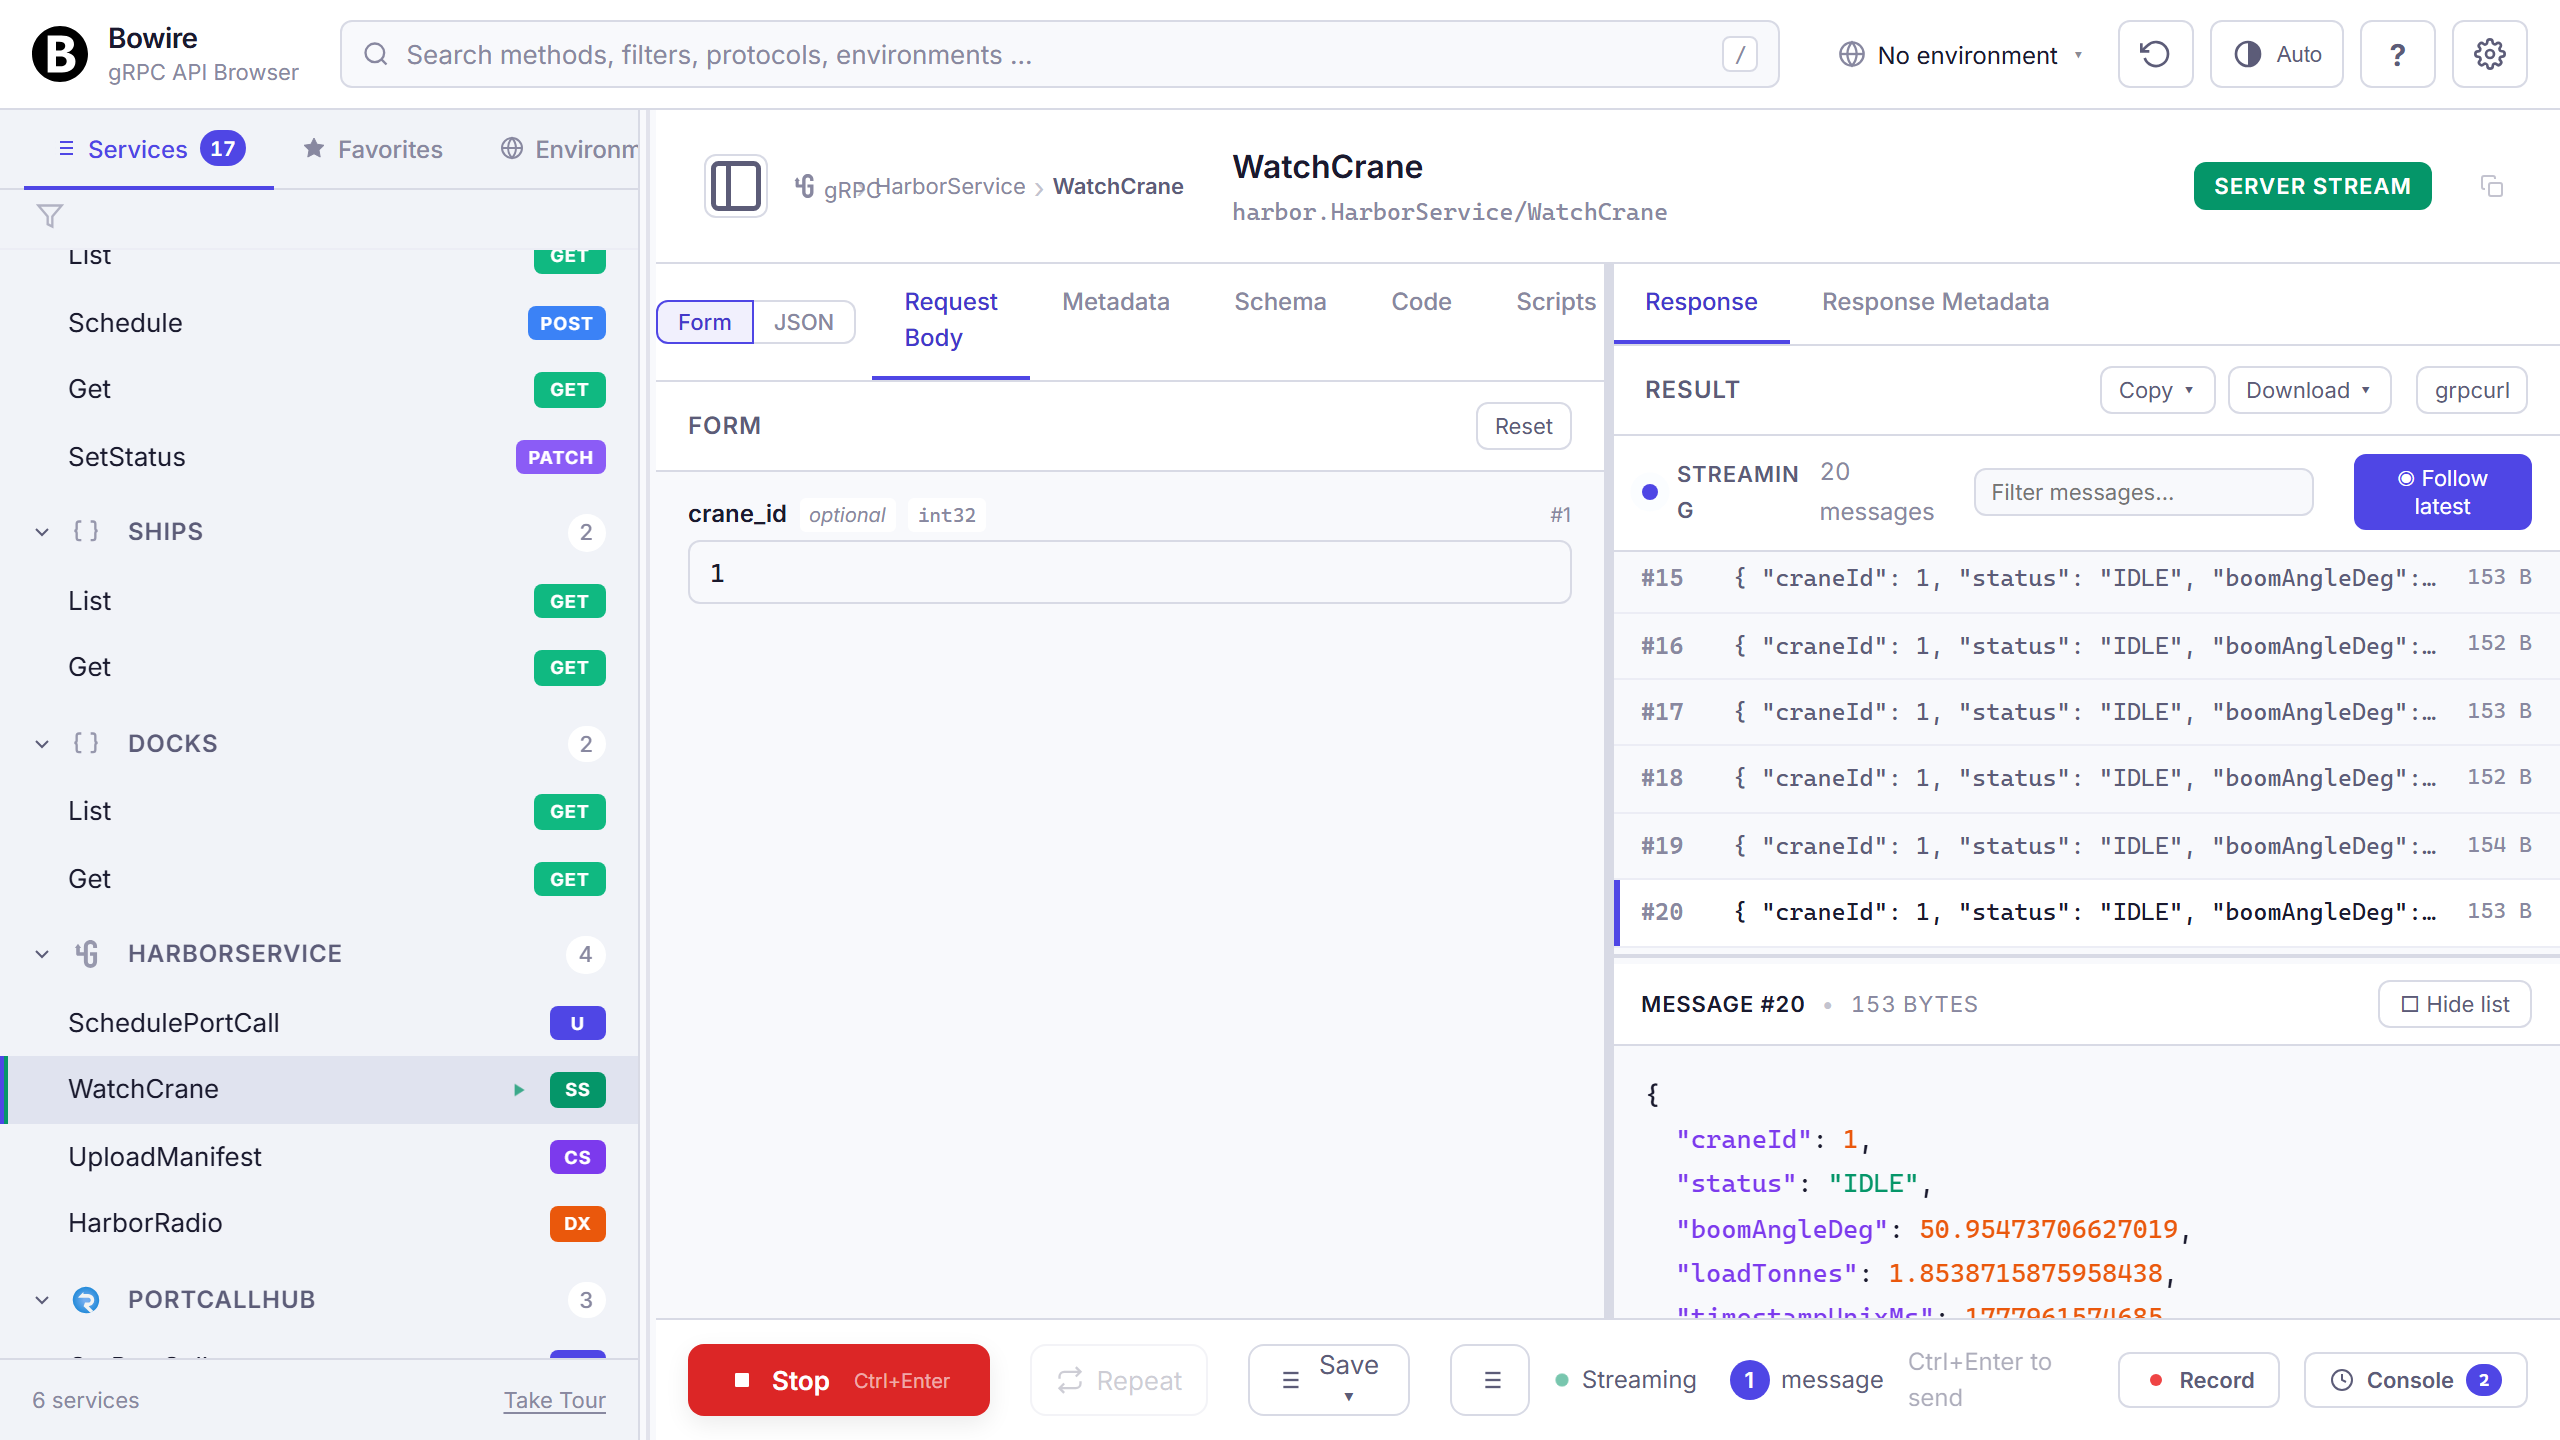
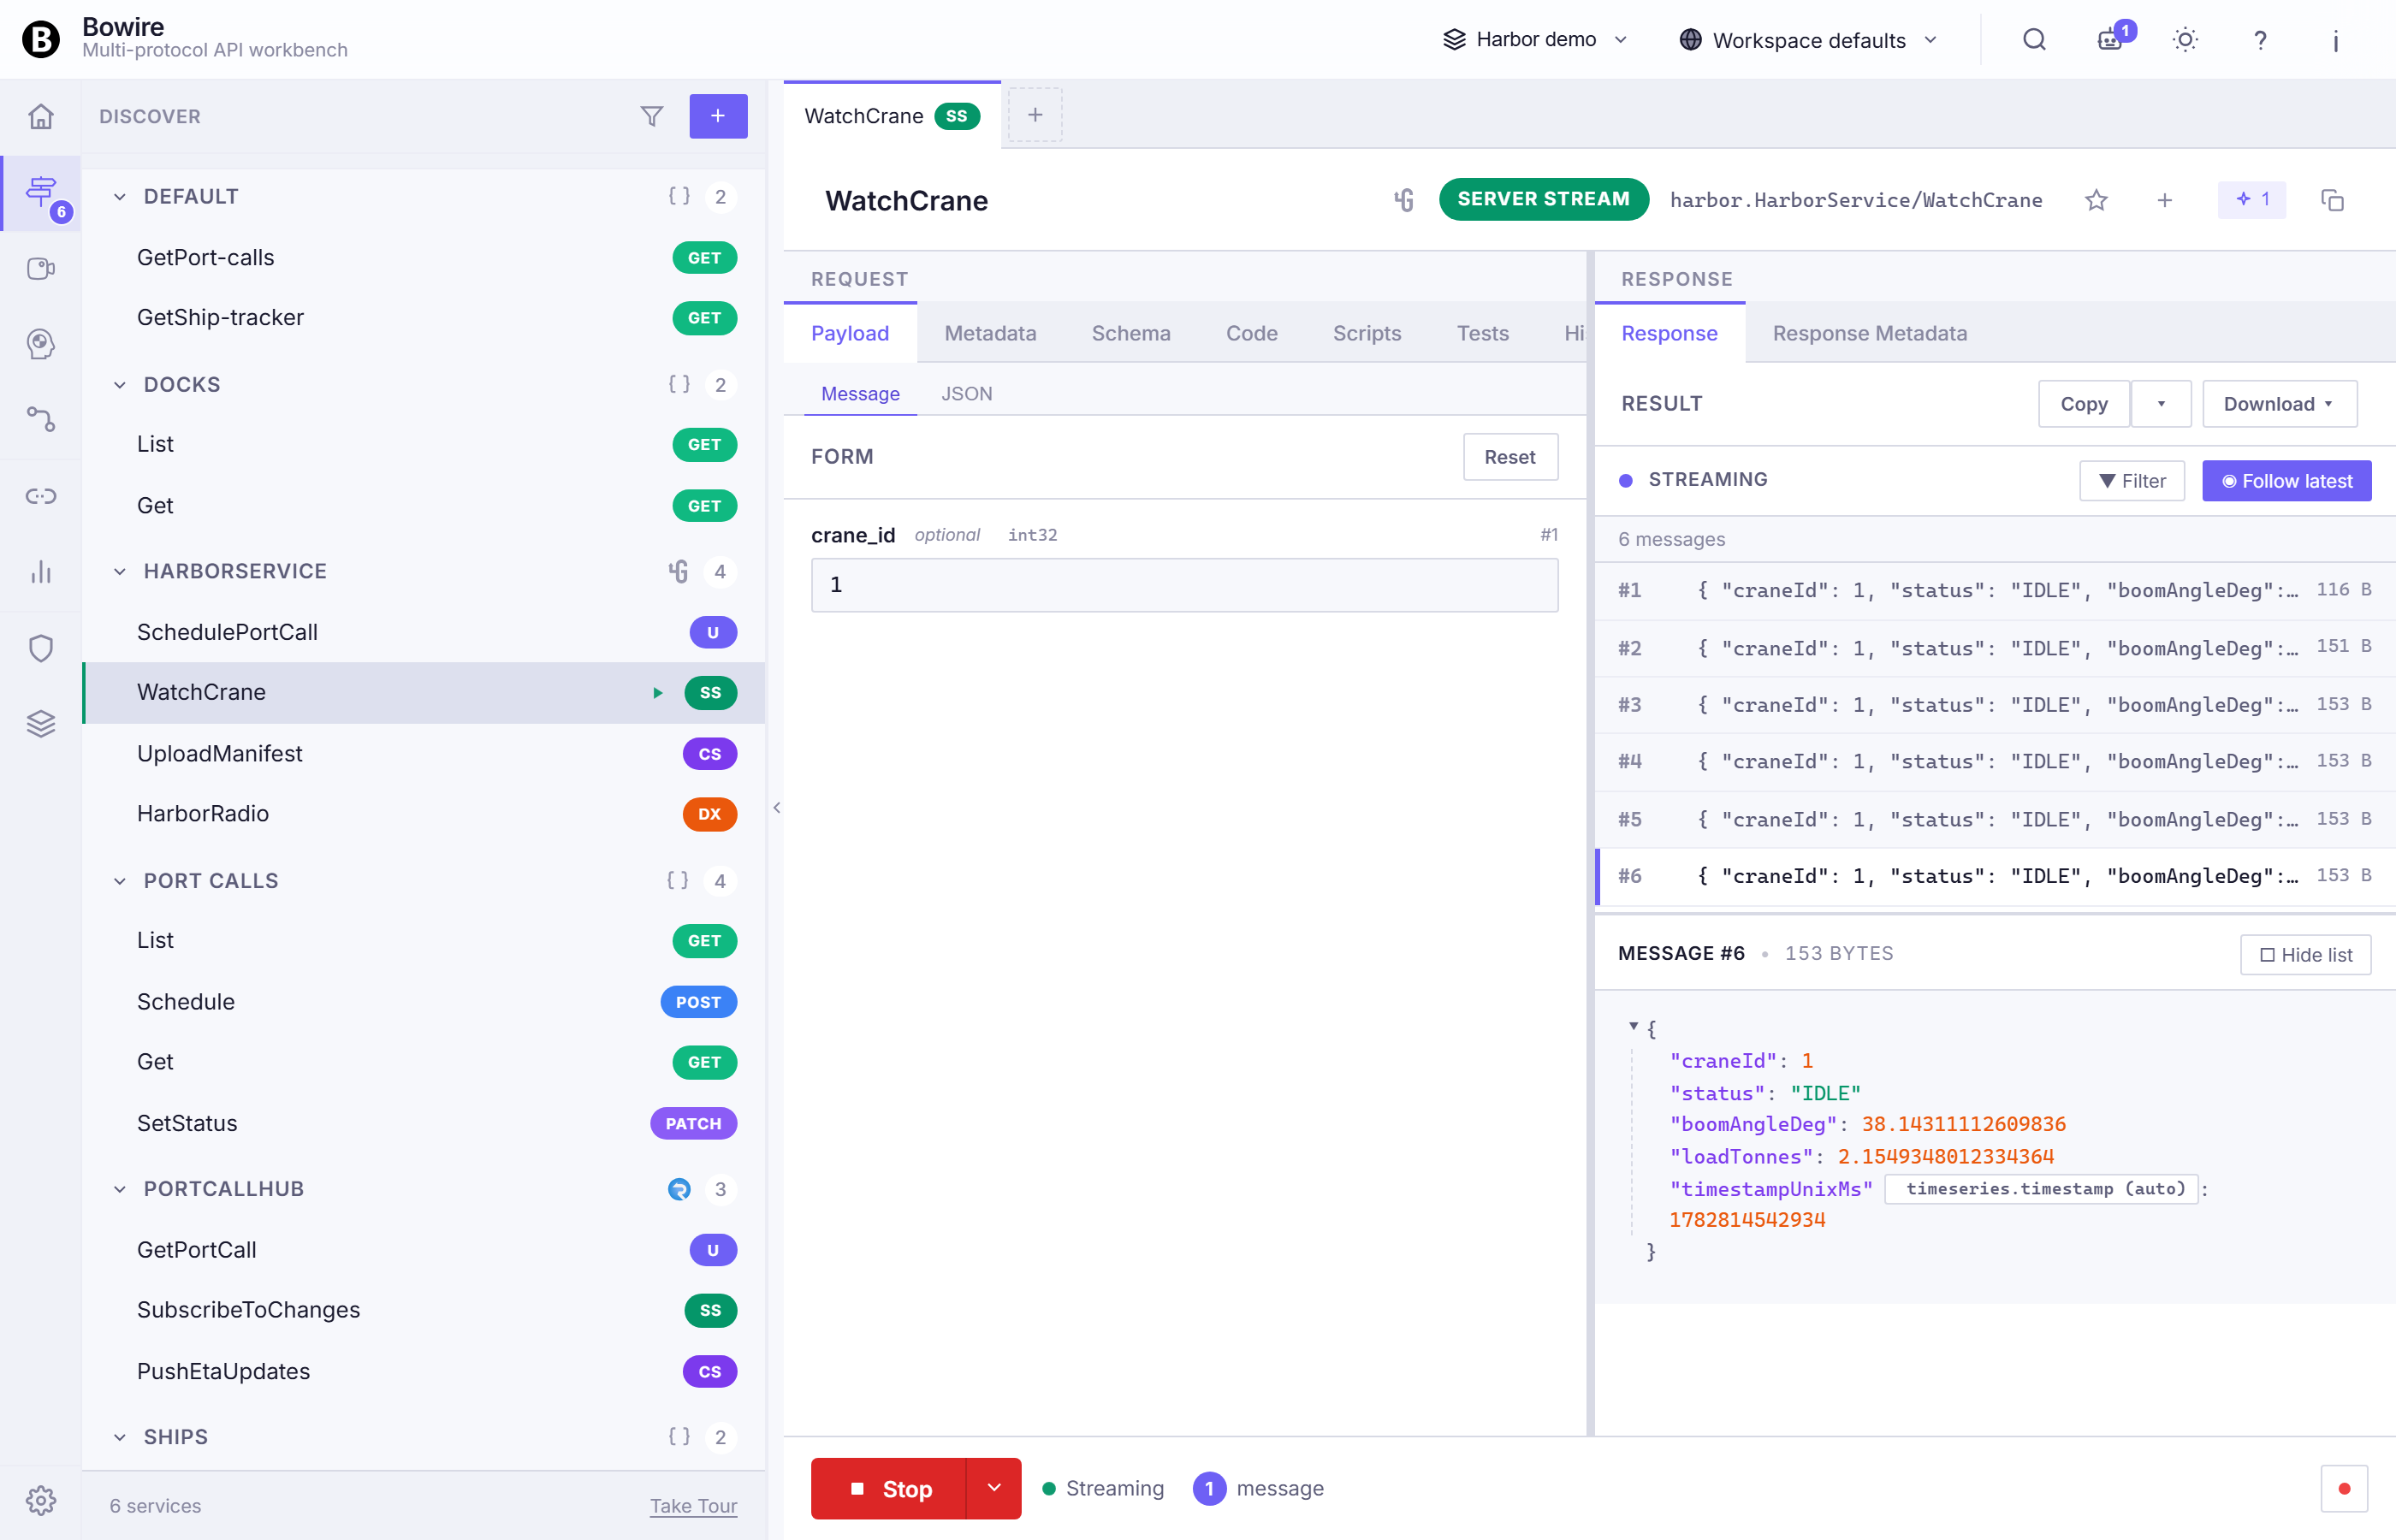
docs(screenshots): refresh ready.png + streaming-grpc for v2.1 marquee
ready.png is the headline asset — README NuGet banner + bowire.io hero
+ features / quickstart / screenshots / usp page references. Previous
PNG was v2.0-era (no rail strip, old terminology). New shot is the
Combined Harbor sample with rail strip visible, Discover active,
HarborService tree expanded, GET /api/docks executed, JSON tree
response card rendered.

streaming-grpc-{dark,light}.png show WatchCrane server stream against
the Combined Harbor sample — SERVER STREAM badge, count pill, six
accumulated frames, message body. Captures the v2.1 stream-card shape.

Other streaming-{akka,dis,graphql,kafka,mqtt}-{dark,light}.png pairs
skipped — those servers live in the Bowire.Samples sibling repo and
weren't running. Existing PNGs untouched; refresh from that repo.

capture-marquee.js is its own script — distinct lifecycle from
capture-v2-1.js (marquee refreshes per release, v2-1/ is the
landing-page surface set tied to that release's narrative).

diff --git a/scripts/screenshots/capture-marquee.js b/scripts/screenshots/capture-marquee.js
@@ -1,0 +1,329 @@
+/**
+ * Refresh Bowire's highest-impact marquee screenshot assets for a release.
+ *
+ * Distinct lifecycle from capture-v2-1.js: marquee assets refresh per
+ * release (this script), v2-1/* are landing-page surfaces tied to that
+ * release's narrative. We keep them separate so a v2.1 -> v2.2 refresh
+ * doesn't churn v2-1/.
+ *
+ * Targets (under site/assets/images/screenshots/):
+ *   ready.png                  Single most-seen Bowire shot — populated
+ *                              workbench, rail strip visible, Discover
+ *                              active, response card rendered.
+ *   streaming-grpc-dark.png    gRPC streaming subscription with state
+ *   streaming-grpc-light.png   badge + count pill + accumulating frames.
+ *
+ * Skipped (server not reachable from this worktree):
+ *   streaming-akka-{dark,light}.png
+ *   streaming-dis-{dark,light}.png
+ *   streaming-graphql-{dark,light}.png
+ *   streaming-kafka-{dark,light}.png
+ *   streaming-mqtt-{dark,light}.png
+ * Those sample servers live in the Bowire.Samples sibling repo. Run
+ * this script there (or wire the samples up locally) to refresh them.
+ *
+ * Operator MUST already have these processes running:
+ *   http://localhost:5180          Tool standalone (workbench at /)
+ *   https://localhost:5101/bowire  Combined Harbor sample
+ *   http://localhost:5181/bowire   Sample.Embedded (REST + Map)
+ *   http://localhost:5182          Sample.TacticalApi (gRPC h2c)
+ *
+ * If the Tool standalone (5180) is down we fall back to the Combined
+ * sample for the ready.png shot — same workbench surface, same v2.1
+ * visual signals — and log the substitution.
+ */
+
+const path = require('path');
+const fs = require('fs');
+
+let chromium;
+try {
+    chromium = require('@playwright/test').chromium;
+} catch (e) {
+    console.error('[bail] @playwright/test not available:', e.message);
+    process.exit(2);
+}
+
+// TWO `..` hops from __dirname — same fix that landed in record-demo /
+// build-activity-snapshot / build-docs-pdf around 9fa1a1c.
+const OUT = path.resolve(__dirname, '..', '..', 'site', 'assets', 'images', 'screenshots');
+fs.mkdirSync(OUT, { recursive: true });
+
+const TOOL = 'http://localhost:5180';
+const COMBINED_BOWIRE = 'https://localhost:5101/bowire';
+const COMBINED_ROOT = 'https://localhost:5101/';
+
+const WIDTH = 1400;
+const HEIGHT = 900;
+const DSF = 2;
+
+function log(msg) { console.log(new Date().toISOString().slice(11, 19), msg); }
+
+function outPath(name) { return path.join(OUT, name + '.png'); }
+
+async function waitForAny(page, selectors, timeoutMs) {
+    const deadline = Date.now() + timeoutMs;
+    while (Date.now() < deadline) {
+        for (const sel of selectors) {
+            const loc = page.locator(sel).first();
+            if (await loc.isVisible().catch(() => false)) return sel;
+        }
+        await page.waitForTimeout(150);
+    }
+    return null;
+}
+
+/** Seed localStorage + reload so the workbench boots into a workspace
+ *  with the given source URL bound, rail mode set, and theme picked. */
+async function seed(page, sampleUrl, railMode, theme) {
+    railMode = railMode || 'discover';
+    theme = theme || 'dark';
+    await page.evaluate(({ sampleUrl, railMode, theme }) => {
+        try {
+            const id = 'harbor';
+            localStorage.setItem('bowire_workspaces', JSON.stringify([{
+                id, name: 'Harbor demo', color: 'sky', createdAt: 1_700_000_000_000
+            }]));
+            localStorage.setItem('bowire_active_workspace_id', id);
+            localStorage.setItem('bowire_ws_' + id + '_server_urls', JSON.stringify([sampleUrl]));
+            localStorage.setItem('bowire_rail_mode', railMode);
+            localStorage.setItem('bowire_theme_pref', theme);
+        } catch { /* ignore */ }
+    }, { sampleUrl, railMode, theme });
+    await page.reload({ waitUntil: 'domcontentloaded' });
+    // Don't hard-fail on bowire-app-ready — Sample.Embedded has a known
+    // boot-error path that blocks it. Method-item attachment is the
+    // reliable signal that discovery finished.
+    await page.waitForSelector('#bowire-app', { timeout: 20000 });
+    await page.waitForTimeout(400);
+}
+
+async function expandAllServices(page) {
+    const groups = await page.locator('.bowire-service-group').all();
+    for (const group of groups) {
+        const chev = group.locator('.bowire-service-chevron').first();
+        const cls = await chev.getAttribute('class').catch(() => '');
+        if (!cls || !cls.includes('expanded')) {
+            const header = group.locator('.bowire-service-header').first();
+            await header.click().catch(() => {});
+            await page.waitForTimeout(120);
+        }
+    }
+    await page.waitForTimeout(400);
+}
+
+// ─── Captures ──────────────────────────────────────────────────────
+
+/** ready.png — populated workbench with all v2.1 visual signals.
+ *  Rail strip left, Discover active, services in sidebar, one method
+ *  selected, a meaningful response card rendered. Full-pane. */
+async function captureReady(page, host, theme) {
+    log(`ready: navigating ${host}, theme=${theme}`);
+    const bowirePath = host === TOOL ? '/' : '/bowire';
+    await page.goto(host + bowirePath, { waitUntil: 'domcontentloaded' });
+    // The Tool standalone has no /bowire prefix — the workbench is at /.
+    // Sample URL is always the combined Harbor sample (richer surface).
+    await seed(page, COMBINED_ROOT, 'discover', theme);
+    await page.waitForSelector('.bowire-method-item', { state: 'attached', timeout: 45000 });
+    await page.waitForTimeout(1000);
+    await expandAllServices(page);
+
+    // Prefer a GET / List style method that returns a meaningful JSON
+    // payload. Try a small ranked list of candidates.
+    const candidates = ['List', 'GetShipTracker', 'GetShips', 'GetDocks', 'GetHarbor', 'Get'];
+    let picked = null;
+    for (const text of candidates) {
+        const m = page.locator('.bowire-method-item', { hasText: text }).first();
+        if (await m.isVisible().catch(() => false)) { picked = m; break; }
+    }
+    if (!picked) {
+        // Fall back: first visible method item, whatever it is.
+        picked = page.locator('.bowire-method-item').first();
+    }
+    if (!(await picked.isVisible().catch(() => false))) {
+        throw new Error('no method item visible to click');
+    }
+    await picked.click();
+    await page.waitForTimeout(600);
+    const exec = page.locator('.bowire-execute-btn, #bowire-execute-btn').first();
+    if (!(await exec.isEnabled().catch(() => false))) {
+        throw new Error('execute button not enabled');
+    }
+    await exec.click();
+    const hit = await waitForAny(page, [
+        '.bowire-response-output.is-interactive',
+        '.bowire-response-output.error',
+        '.bowire-json-tree',
+        '.bowire-response-output:has(pre)'
+    ], 10000);
+    if (!hit) throw new Error('response never landed');
+    await page.waitForTimeout(900);
+    await page.screenshot({ path: outPath('ready') });
+    log('ready: OK');
+}
+
+/** streaming-grpc-{theme}.png — gRPC server-streaming subscription with
+ *  state badge + count pill + accumulating frames. Combined sample's
+ *  HarborService.WatchCrane is a 1 Hz server stream. */
+async function captureStreamingGrpc(page, theme) {
+    log(`streaming-grpc-${theme}: navigate Combined`);
+    await page.goto(COMBINED_BOWIRE, { waitUntil: 'domcontentloaded' });
+    await seed(page, COMBINED_ROOT, 'discover', theme);
+    await page.waitForSelector('.bowire-method-item', { state: 'attached', timeout: 45000 });
+    await page.waitForTimeout(1000);
+    await expandAllServices(page);
+
+    const candidates = ['WatchCrane', 'Subscribe', 'Watch'];
+    let picked = null;
+    for (const text of candidates) {
+        const m = page.locator('.bowire-method-item', { hasText: text }).first();
+        if (await m.isVisible().catch(() => false)) { picked = m; break; }
+    }
+    if (!picked) throw new Error('no streaming method visible');
+    await picked.scrollIntoViewIfNeeded();
+    await picked.click();
+    await page.waitForTimeout(800);
+
+    // WatchCrane takes a craneId — record-demo feeds "1".
+    const craneId = page.locator('input[data-field-key="craneId"]').first();
+    if (await craneId.isVisible().catch(() => false)) {
+        await craneId.fill('1').catch(() => {});
+        await page.waitForTimeout(200);
+    }
+    const exec = page.locator('.bowire-execute-btn, #bowire-execute-btn').first();
+    if (!(await exec.isEnabled().catch(() => false))) {
+        throw new Error('execute / subscribe button not enabled');
+    }
+    await exec.click();
+    const firstHit = await waitForAny(page, [
+        '.bowire-stream-list-item',
+        '.bowire-stream-list-pane .bowire-stream-list-item'
+    ], 12000);
+    if (!firstHit) throw new Error('no stream frames within 12s');
+    // Wait for ≥3 frames so the count badge shows a meaningful number.
+    const deadline = Date.now() + 9000;
+    while (Date.now() < deadline) {
+        const count = await page.locator('.bowire-stream-list-item').count().catch(() => 0);
+        if (count >= 3) break;
+        await page.waitForTimeout(300);
+    }
+    await page.waitForTimeout(500);
+
+    // Wide clip on the response pane so the badge + count + stream rows
+    // are all in frame, but the sidebar + rail context still reads. The
+    // rail is 48px wide + sidebar ~260px — start clip slightly inside
+    // the rail so the active mode dot is in shot.
+    await page.screenshot({
+        path: outPath('streaming-grpc-' + theme),
+        clip: { x: 0, y: 0, width: WIDTH, height: HEIGHT }
+    });
+
+    // Stop the stream so it doesn't keep ticking + skewing the next shot.
+    const cancel = page.locator('.bowire-cancel-btn, #bowire-cancel-btn').first();
+    if (await cancel.isVisible().catch(() => false)) {
+        await cancel.click().catch(() => {});
+        await page.waitForTimeout(300);
+    }
+    log(`streaming-grpc-${theme}: OK`);
+}
+
+// ─── Driver ────────────────────────────────────────────────────────
+
+(async () => {
+    log('Launching Chromium…');
+    const browser = await chromium.launch({
+        headless: true,
+        args: ['--ignore-certificate-errors']
+    });
+    const results = [];
+
+    // 1) ready.png — capture against the Combined sample because the
+    //    workbench mounted there can discover its own origin (CORS-free
+    //    + same self-signed cert chain). The Tool standalone at :5180
+    //    runs the same workbench surface but can't discover :5101
+    //    cross-origin without browser-side CORS configuration, so it
+    //    paints the empty-state instead. Same v2.1 visual signals
+    //    either way — rail strip, sidebar, response card.
+    {
+        const context = await browser.newContext({
+            viewport: { width: WIDTH, height: HEIGHT },
+            deviceScaleFactor: DSF,
+            ignoreHTTPSErrors: true,
+            colorScheme: 'dark'
+        });
+        const page = await context.newPage();
+        await page.emulateMedia({ colorScheme: 'dark' });
+        page.on('console', msg => {
+            if (msg.type() === 'error') {
+                const t = msg.text();
+                if (t.length < 200) log(`[browser ERR ready] ${t}`);
+            }
+        });
+        try {
+            await captureReady(page, 'https://localhost:5101', 'dark');
+            results.push({ name: 'ready.png', ok: true, host: COMBINED_BOWIRE });
+        } catch (e) {
+            log(`[FAIL ready] ${e.message}`);
+            try { await page.screenshot({ path: outPath('ready.fail-debug') }); } catch {}
+            results.push({ name: 'ready.png', ok: false, err: e.message });
+        }
+        await context.close();
+    }
+
+    // 2) streaming-grpc-{dark,light}.png — fresh context per theme so
+    //    the colorScheme + emulateMedia take effect cleanly.
+    for (const theme of ['dark', 'light']) {
+        const context = await browser.newContext({
+            viewport: { width: WIDTH, height: HEIGHT },
+            deviceScaleFactor: DSF,
+            ignoreHTTPSErrors: true,
+            colorScheme: theme
+        });
+        const page = await context.newPage();
+        await page.emulateMedia({ colorScheme: theme });
+        page.on('console', msg => {
+            if (msg.type() === 'error') {
+                const t = msg.text();
+                if (t.length < 200) log(`[browser ERR streaming-${theme}] ${t}`);
+            }
+        });
+        try {
+            await captureStreamingGrpc(page, theme);
+            results.push({ name: `streaming-grpc-${theme}.png`, ok: true });
+        } catch (e) {
+            log(`[FAIL streaming-grpc-${theme}] ${e.message}`);
+            try { await page.screenshot({ path: outPath(`streaming-grpc-${theme}.fail-debug`) }); } catch {}
+            results.push({ name: `streaming-grpc-${theme}.png`, ok: false, err: e.message });
+        }
+        await context.close();
+    }
+
+    // 3) Skipped protocols — logged for the report.
+    const skipped = ['akka', 'dis', 'graphql', 'kafka', 'mqtt'];
+    for (const proto of skipped) {
+        results.push({
+            name: `streaming-${proto}-{dark,light}.png`,
+            ok: false,
+            skipped: true,
+            err: 'server not reachable from this worktree (Bowire.Samples sibling not running)'
+        });
+    }
+
+    await browser.close();
+
+    log('Summary:');
+    for (const r of results) {
+        if (r.skipped) {
+            log(`  SKIP ${r.name} — ${r.err}`);
+        } else {
+            log(`  ${r.ok ? 'OK  ' : 'FAIL'} ${r.name}${r.host ? ' [' + r.host + ']' : ''}${r.err ? ' — ' + r.err : ''}`);
+        }
+    }
+    const okCount = results.filter(r => r.ok).length;
+    const failCount = results.filter(r => !r.ok && !r.skipped).length;
+    log(`${okCount} captured, ${failCount} failed, ${results.filter(r => r.skipped).length} skipped.`);
+    process.exit(okCount > 0 ? 0 : 1);
+})().catch(e => {
+    console.error('[fatal]', e && e.stack || e);
+    process.exit(1);
+});